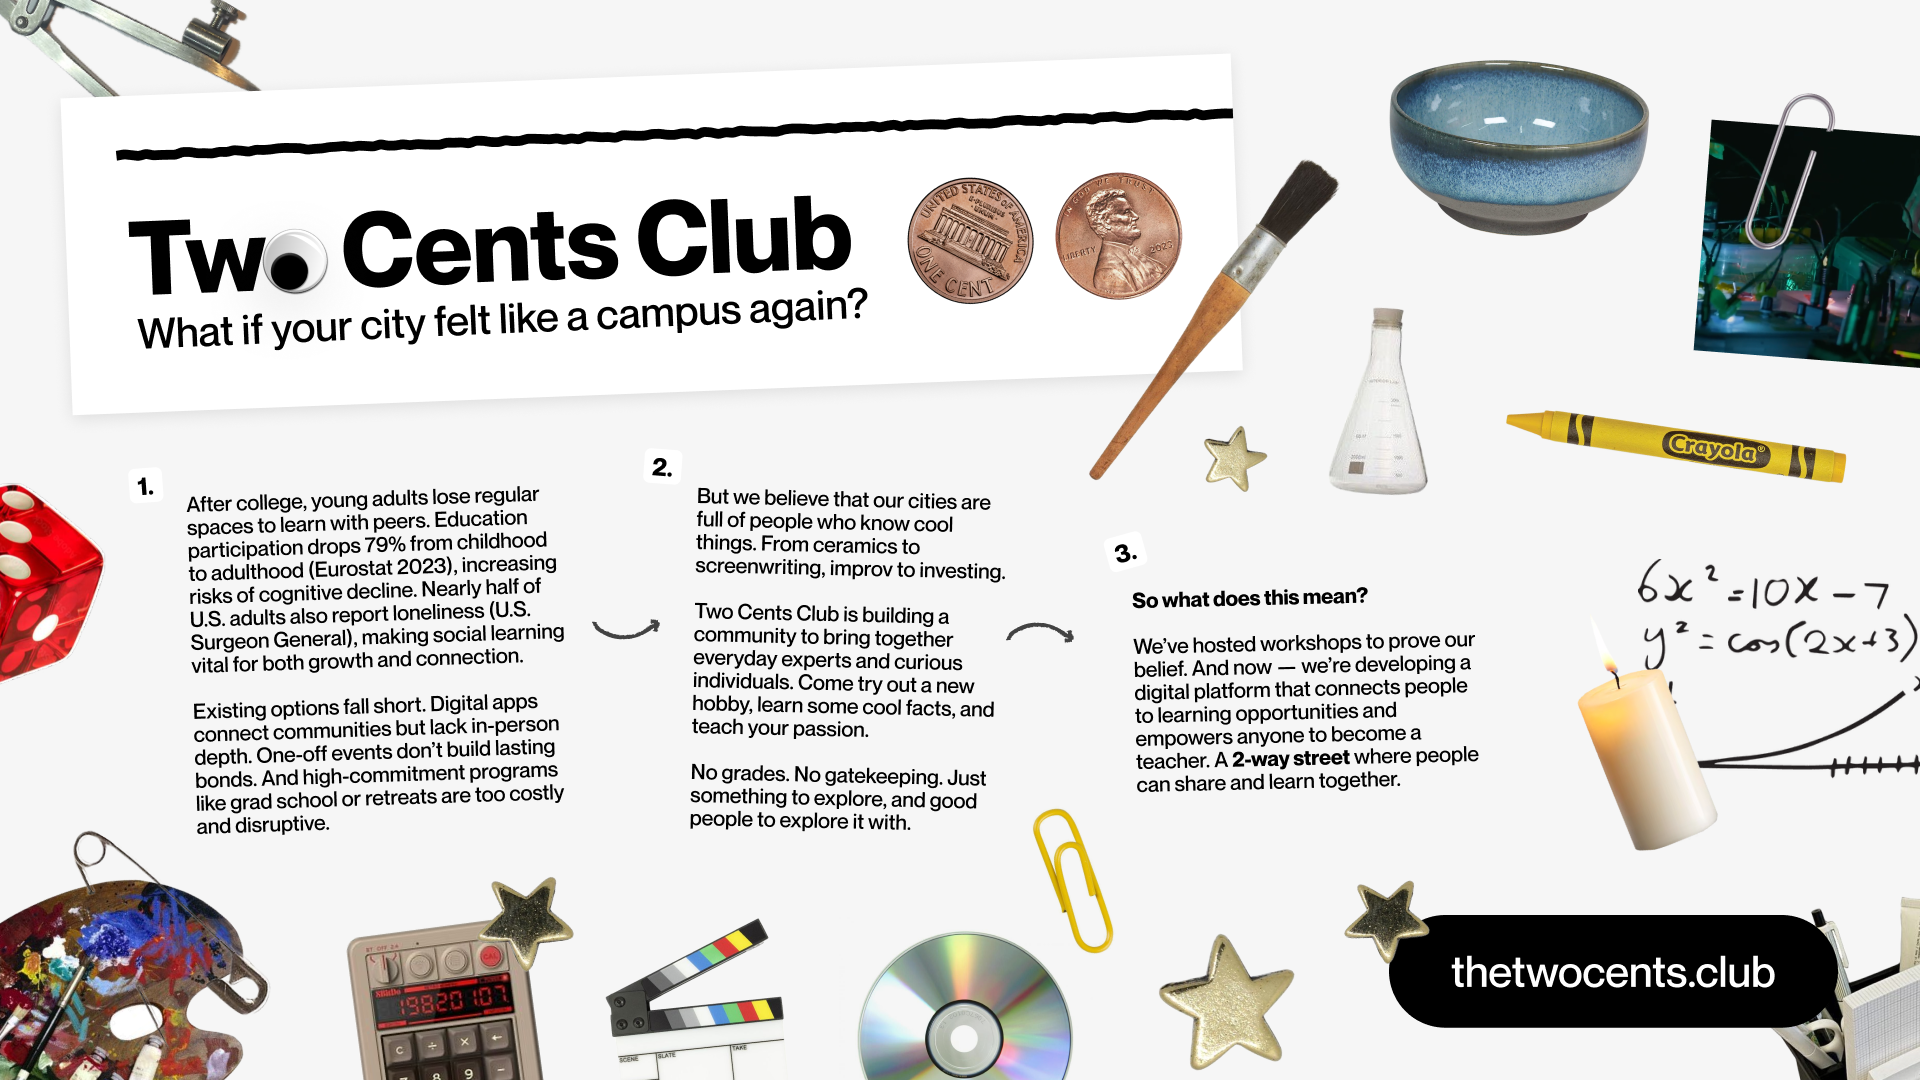
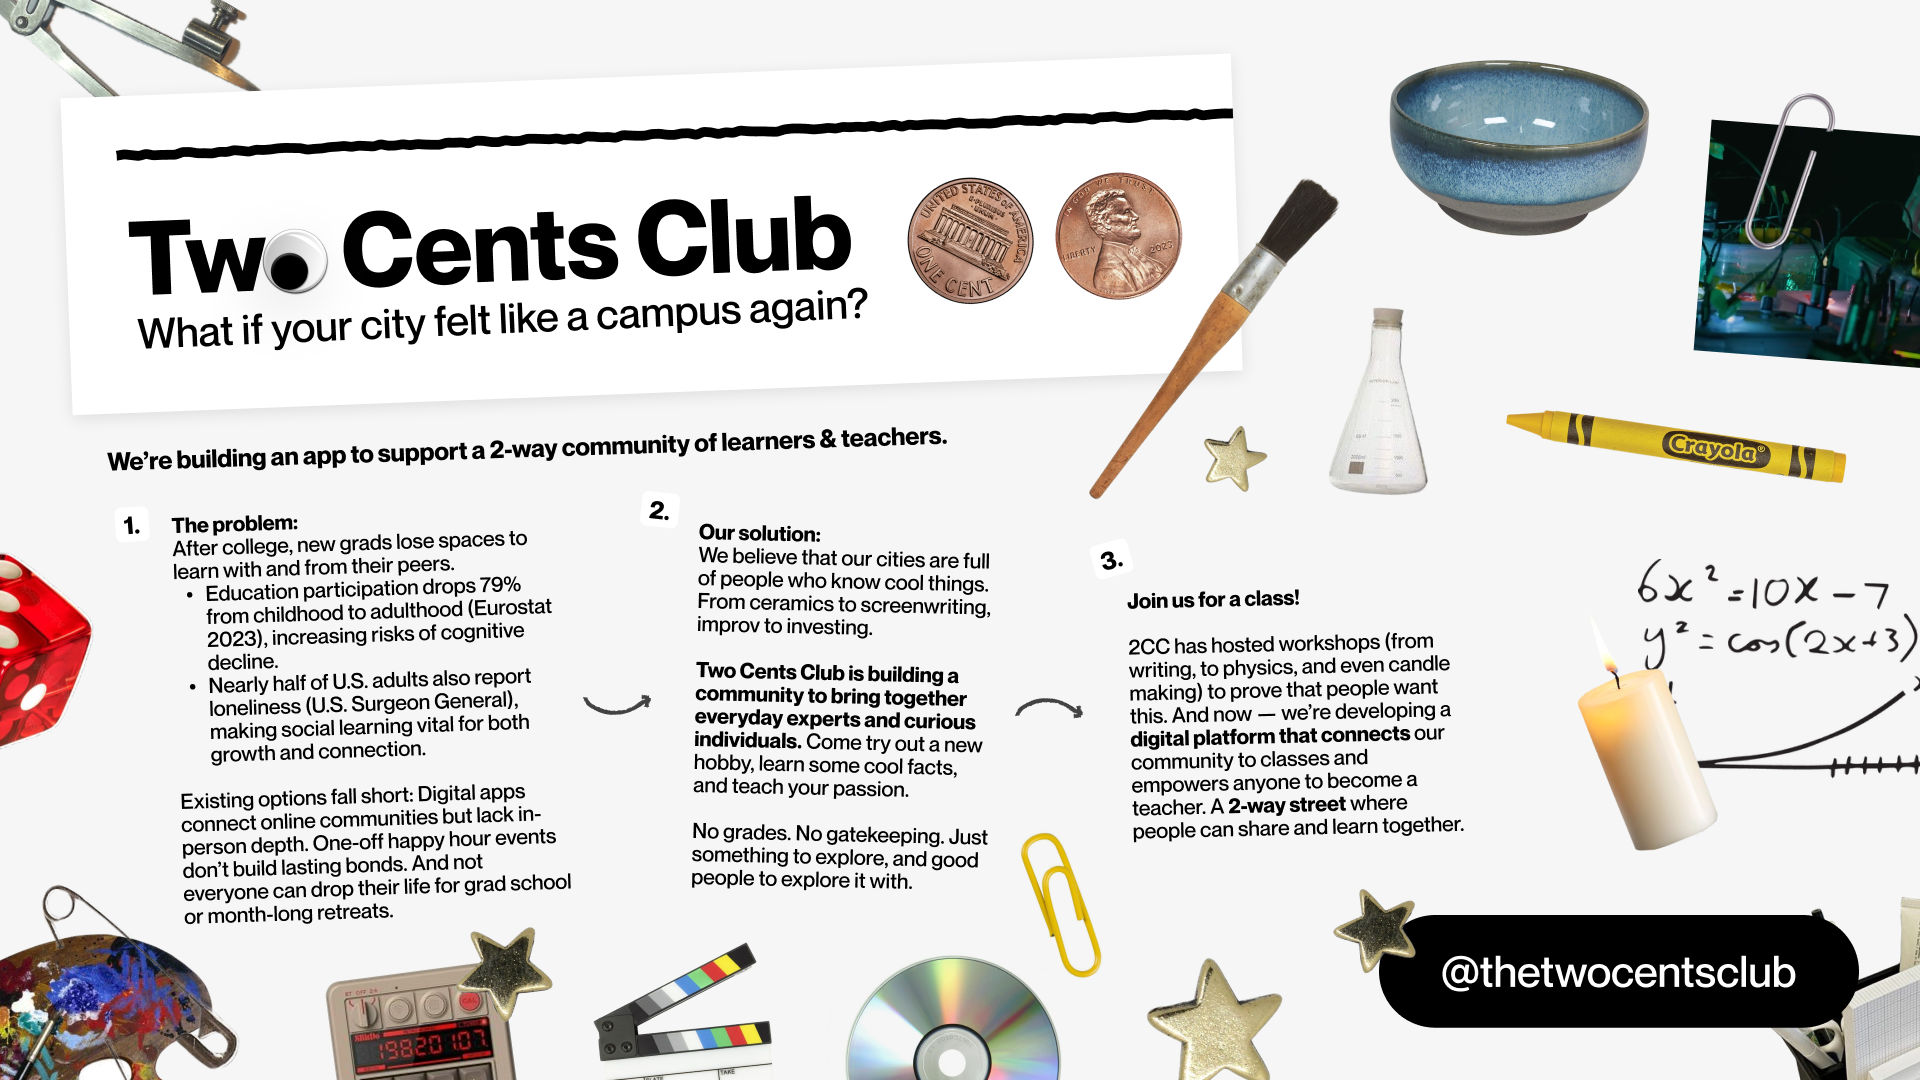
TCC changes

diff --git a/src/app/pages/projects/twocentsclub/page.js b/src/app/pages/projects/twocentsclub/page.js
@@ -70,7 +70,7 @@ export default function TwoCentsPage() {
           <a href="https://thetwocents.club/" target="_blank">
             <div className="bg-white-80 text-black py-3 px-5 rounded-3xl font-sans hover:bg-blue-400 hover:border-white transition duration-200 flex items-center w-fit gap-1 border-neutral-400 border mt-8">
               <div>
-                This project is currently being built! Click for more details.
+                This app is currently in-development! Click for more details.
               </div>
               <svg
                 xmlns="http://www.w3.org/2000/svg"

diff --git a/src/app/pages/about/page.js b/src/app/pages/about/page.js
@@ -56,8 +56,8 @@ export default function About() {
                 CURRENT ADVENTURE:
               </span>
               <br />
-              Studying integrated Computer Science, Product Design, and
-              Entrepreneurship at USC's{" "}
+              Studying integrated Design, Computer Science, and Entrepreneurship
+              at USC's{" "}
               <a
                 href="https://iovine-young.usc.edu/"
                 target="_blank"
